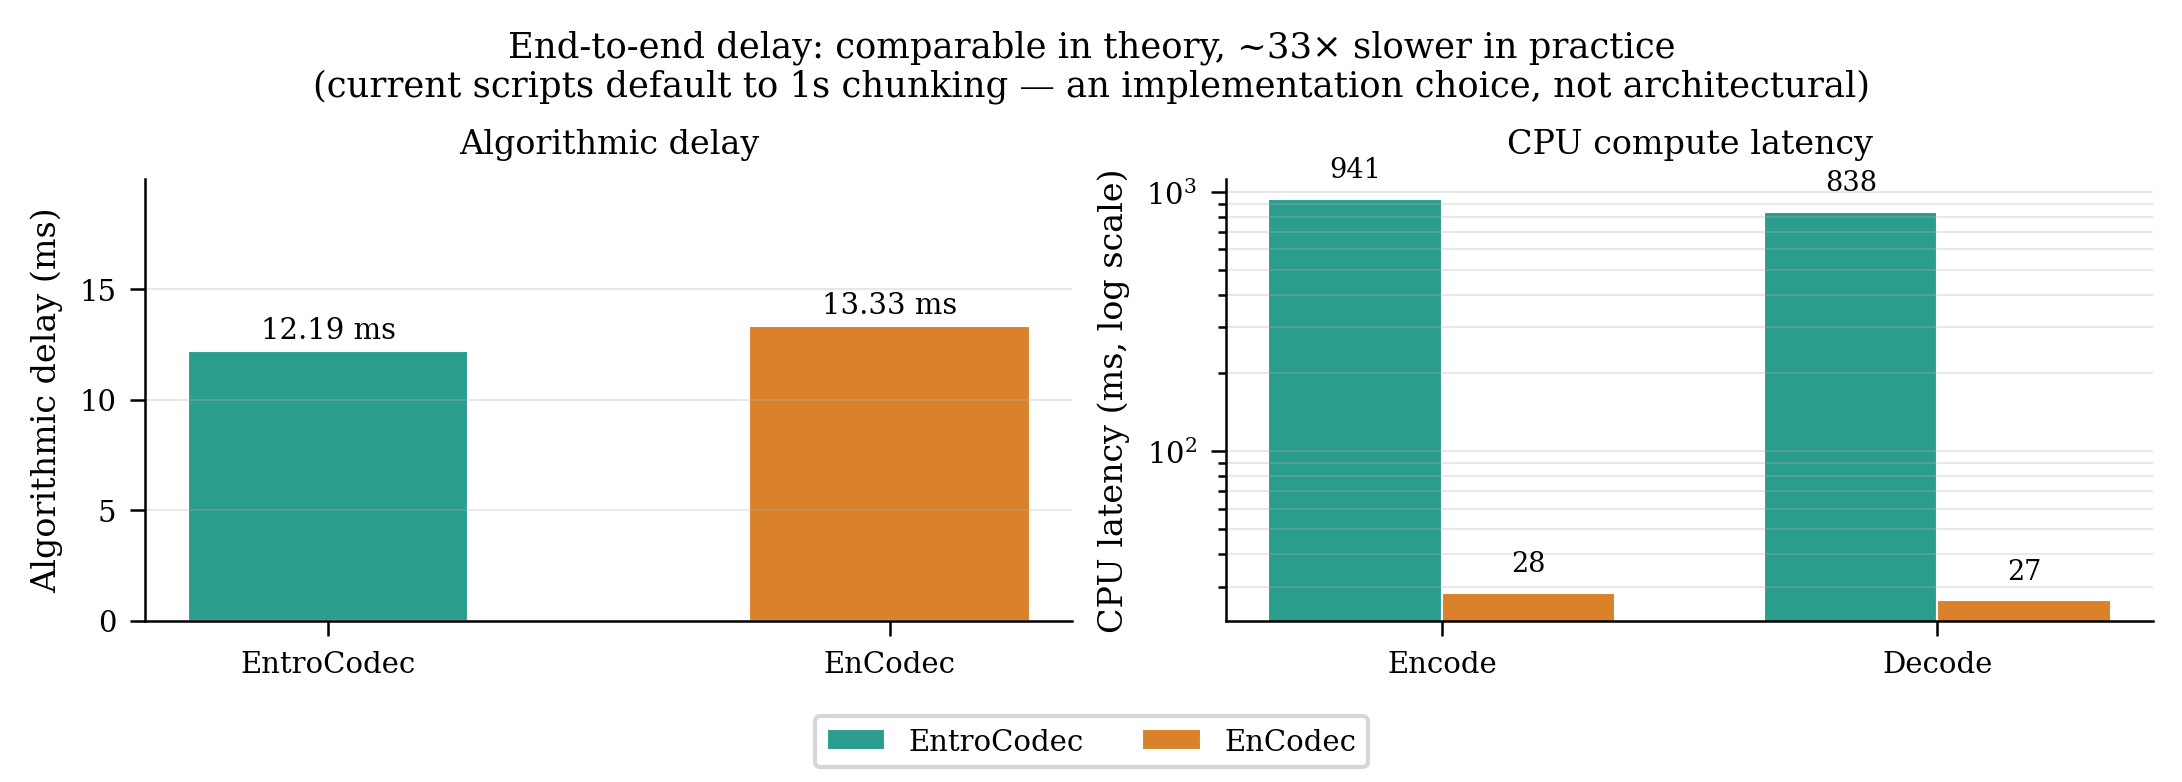
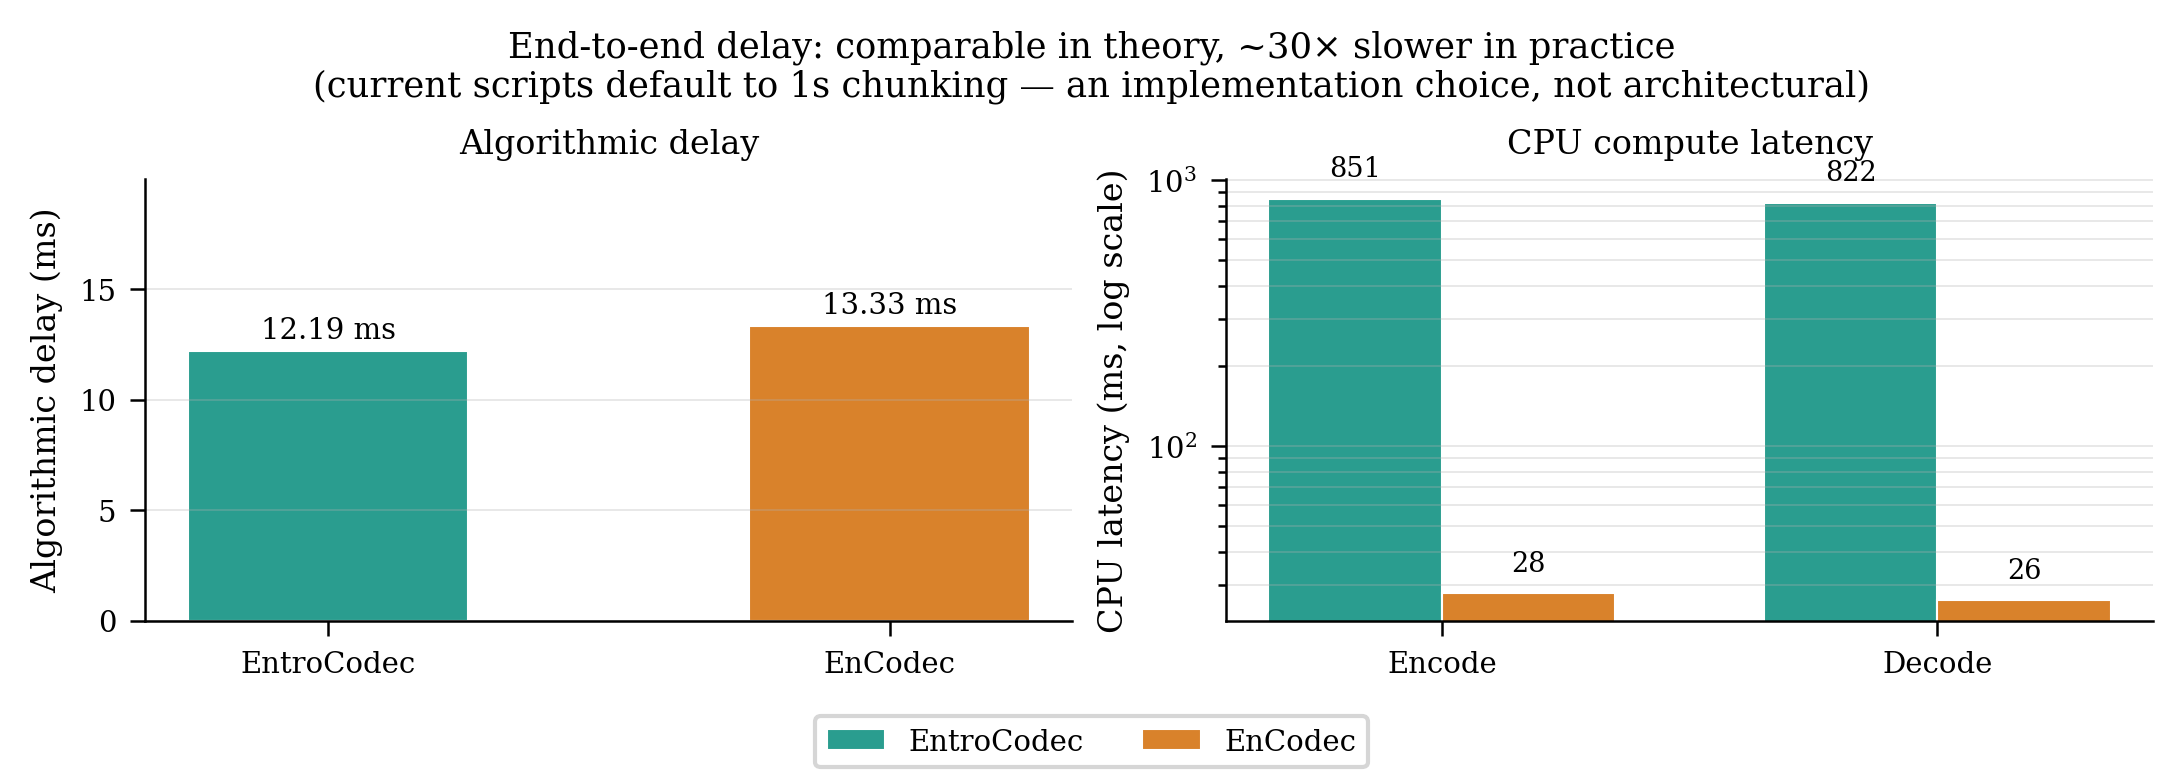
feat: update analyze_compression and eval_complexity scripts with new fixed phase checkpoints and improve data loading for complexity metrics

diff --git a/scripts/figures/data_loader.py b/scripts/figures/data_loader.py
@@ -68,7 +68,10 @@ def load_all(project_root: Path) -> dict:
     _try(data, 'multi_coder',  _load_multi_coder,     comp / '2026-07-10_multi_coder' / 'report.txt')
     _try(data, 'ood',          _load_ood,             comp / '2026-07-01_ood_eval' / 'report.txt')
     _try(data, 'corruption',   _load_corruption,      comp / '2026-07-01_corruption_test' / 'report.txt')
-    _try(data, 'complexity',   _load_complexity,      comp / '2026-07-18_complexity_latency' / 'report.txt')
+    # Measured against the platform checkpoint (fixed 100ms attention window).
+    # Superseded: 2026-07-18_complexity_latency (pre-fix checkpoint) -- kept only
+    # to show the two are numerically identical, see the note in the newer report.
+    _try(data, 'complexity',   _load_complexity,      comp / '2026-09-09_complexity_latency' / 'report.txt')
     _try(data, 'vctk',         _load_second_dataset,  comp / '2026-07-10_second_dataset' / 'report.txt')
     # eval_music.py saves to comparisons/<date>_music_eval/metrics.csv — find latest
     music_dirs = sorted(comp.glob('*_music_eval'), reverse=True)
@@ -149,8 +152,16 @@ _RE_COMP_ROW = re.compile(
 # figure code keys on the display names used by the CI report ("D-VAE",
 # "D-Entropy"). Anything not listed here just gets upper-cased.
 _COMP_PHASE_NAMES = {
-    'dvae':      'D-VAE',
-    'dentropy':  'D-Entropy',
+    'dvae':             'D-VAE',
+    'dentropy':         'D-Entropy',
+    'cfixed':           'C-fixed',
+    'dfixed':           'D-fixed',
+    'dvaefixed':        'D-VAE-fixed',
+    'dentropyfixed':    'D-Entropy-fixed',
+    'efixed':           'E-fixed',
+    'ffixed':           'F-fixed',
+    'gfixed':           'G-fixed',
+    'ncfixed':          'NC-fixed',
 }
 
 

diff --git a/scripts/eval_complexity.py b/scripts/eval_complexity.py
@@ -32,6 +32,10 @@ def load_ours(ckpt_path="checkpoints_active/temporal_phaseG/best.pt"):
         window_size=ckpt["window_size"],
         bottleneck_dim=ckpt["bottleneck_dim"],
         temporal_stride=ckpt["temporal_stride"],
+        # Without this, a _fixed checkpoint loads with the mask disabled --
+        # state_dict keys are identical either way (the mask adds no
+        # parameters), so this fails silently rather than erroring.
+        fixed_window_mask=ckpt.get("fixed_window_mask", False),
     )
     model.load_state_dict(ckpt["model_state_dict"])
     model.eval()
@@ -89,10 +93,15 @@ def min_samples_for_one_frame(encode_fn, sample_rate, lo=1, hi=None):
 
 
 if __name__ == "__main__":
+    import argparse
+    ap = argparse.ArgumentParser()
+    ap.add_argument("--checkpoint", default="checkpoints_active/temporal_phaseG/best.pt")
+    args = ap.parse_args()
+
     torch.manual_seed(0)
 
     # ---- Ours ----
-    ours = load_ours()
+    ours = load_ours(args.checkpoint)
     ob = ours_breakdown(ours)
     x16 = torch.randn(1, 1, 16000)  # 1s @ 16kHz
 
@@ -104,7 +113,8 @@ if __name__ == "__main__":
         z_ours = ours.encode(x16)
     t_decode_ours = time_call(lambda: ours.decode(z_ours))
 
-    print("=== Ours (Phase G, 16 kHz, causal, 3-bit SQ) ===")
+    print(f"=== Ours ({args.checkpoint}, 16 kHz, causal, 3-bit SQ, "
+          f"fixed_window_mask={ours.encoder.transformer_blocks[0].attention.fixed_window_mask}) ===")
     for k, v in ob.items():
         print(f"  {k:16s} {v:>14,}")
     print(f"  MACs (1s clip, full fwd) {macs_enc_ours:>14,.0f}")

diff --git a/scripts/analyze_compression.py b/scripts/analyze_compression.py
@@ -41,6 +41,18 @@ PHASES = {
     'phaseDvae16': PROJECT_ROOT / 'checkpoints_active/temporal_phaseD_vae_16/best.pt',
     'phaseD64':    PROJECT_ROOT / 'checkpoints_active/temporal_phaseD_64/best.pt',
     'phaseDvae64': PROJECT_ROOT / 'checkpoints_active/temporal_phaseD_vae_64/best.pt',
+    # Corrected 100ms attention window (#27-29) -- the actual system this report
+    # presents. Quality/bitrate for this family already exists in the n=40 CI
+    # report; entropy never did, which would have left the platform's own
+    # headline evidence measured on a different, unbounded-attention model.
+    'phaseCfixed':        PROJECT_ROOT / 'checkpoints_active/temporal_phaseC_fixed/best.pt',
+    'phaseDfixed':        PROJECT_ROOT / 'checkpoints_active/temporal_phaseD_fixed/best.pt',
+    'phaseDvaefixed':     PROJECT_ROOT / 'checkpoints_active/temporal_phaseD_vae_fixed/best.pt',
+    'phaseDentropyfixed': PROJECT_ROOT / 'checkpoints_active/temporal_phaseEntropy_fixed/best.pt',
+    'phaseEfixed':        PROJECT_ROOT / 'checkpoints_active/temporal_phaseE_fixed/best.pt',
+    'phaseFfixed':        PROJECT_ROOT / 'checkpoints_active/temporal_phaseF_fixed/best.pt',
+    'phaseGfixed':        PROJECT_ROOT / 'checkpoints_active/temporal_phaseG_fixed/best.pt',
+    'phaseNCfixed':       PROJECT_ROOT / 'checkpoints_active/temporal_phaseNC_fixed/best.pt',
 }
 
 # Per-dimension table column width: wide enough for the longest phase name plus a
